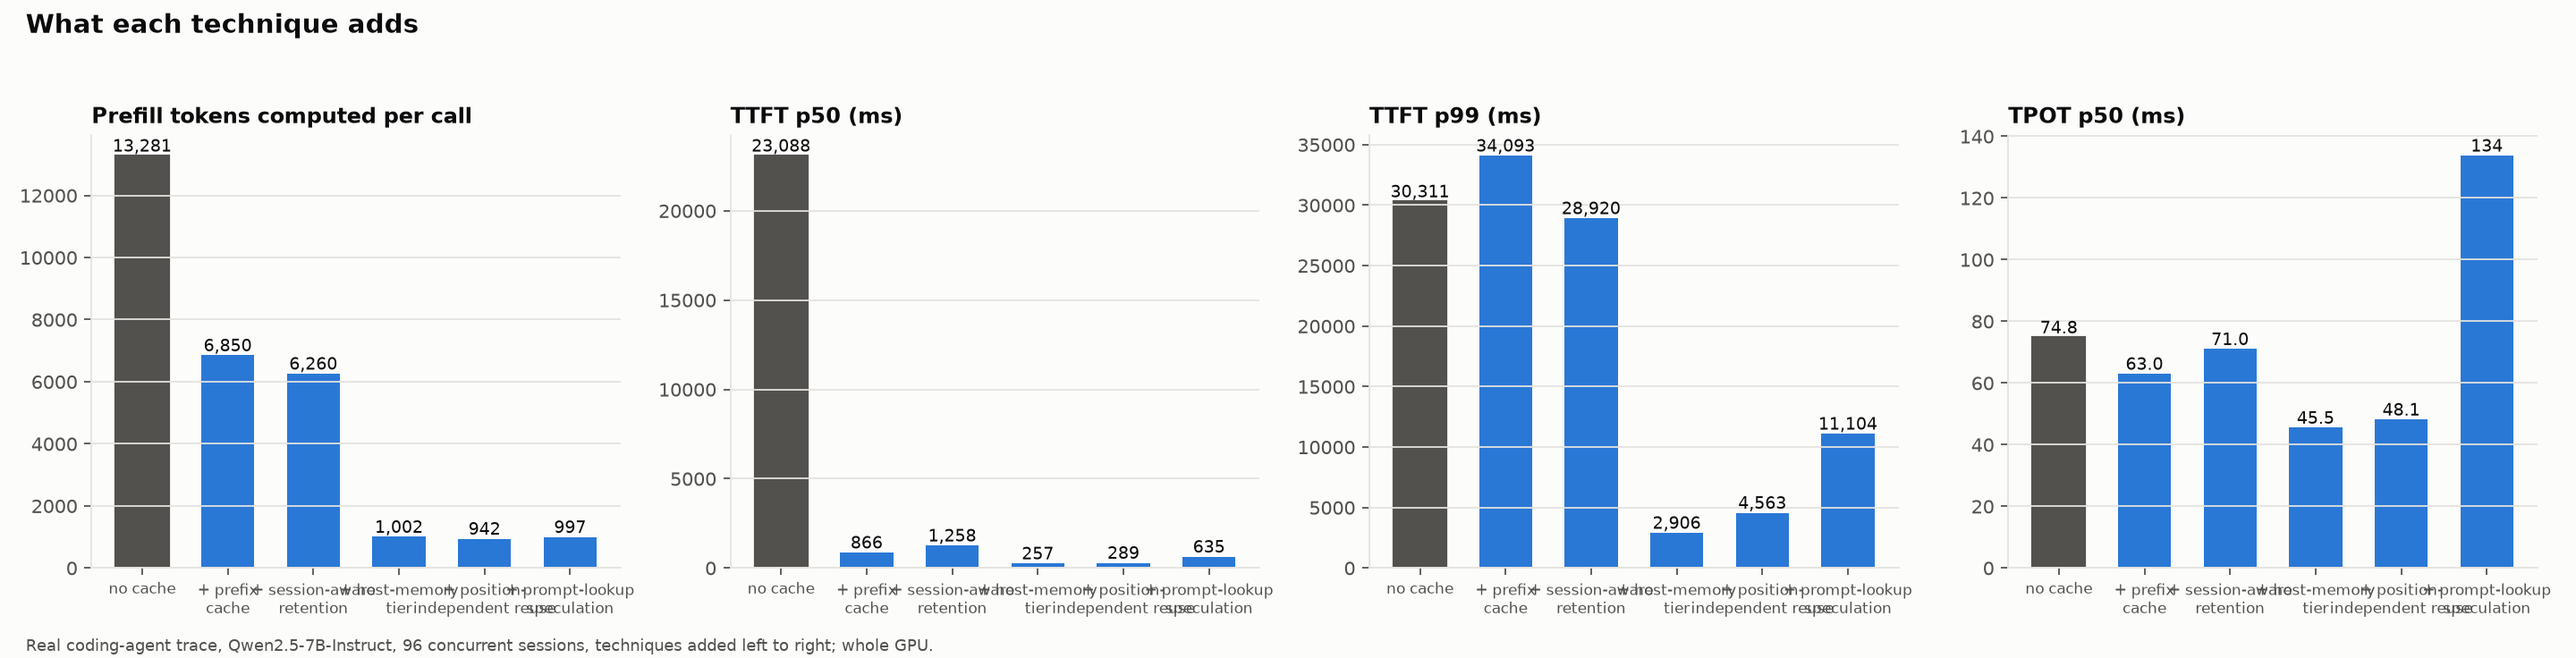
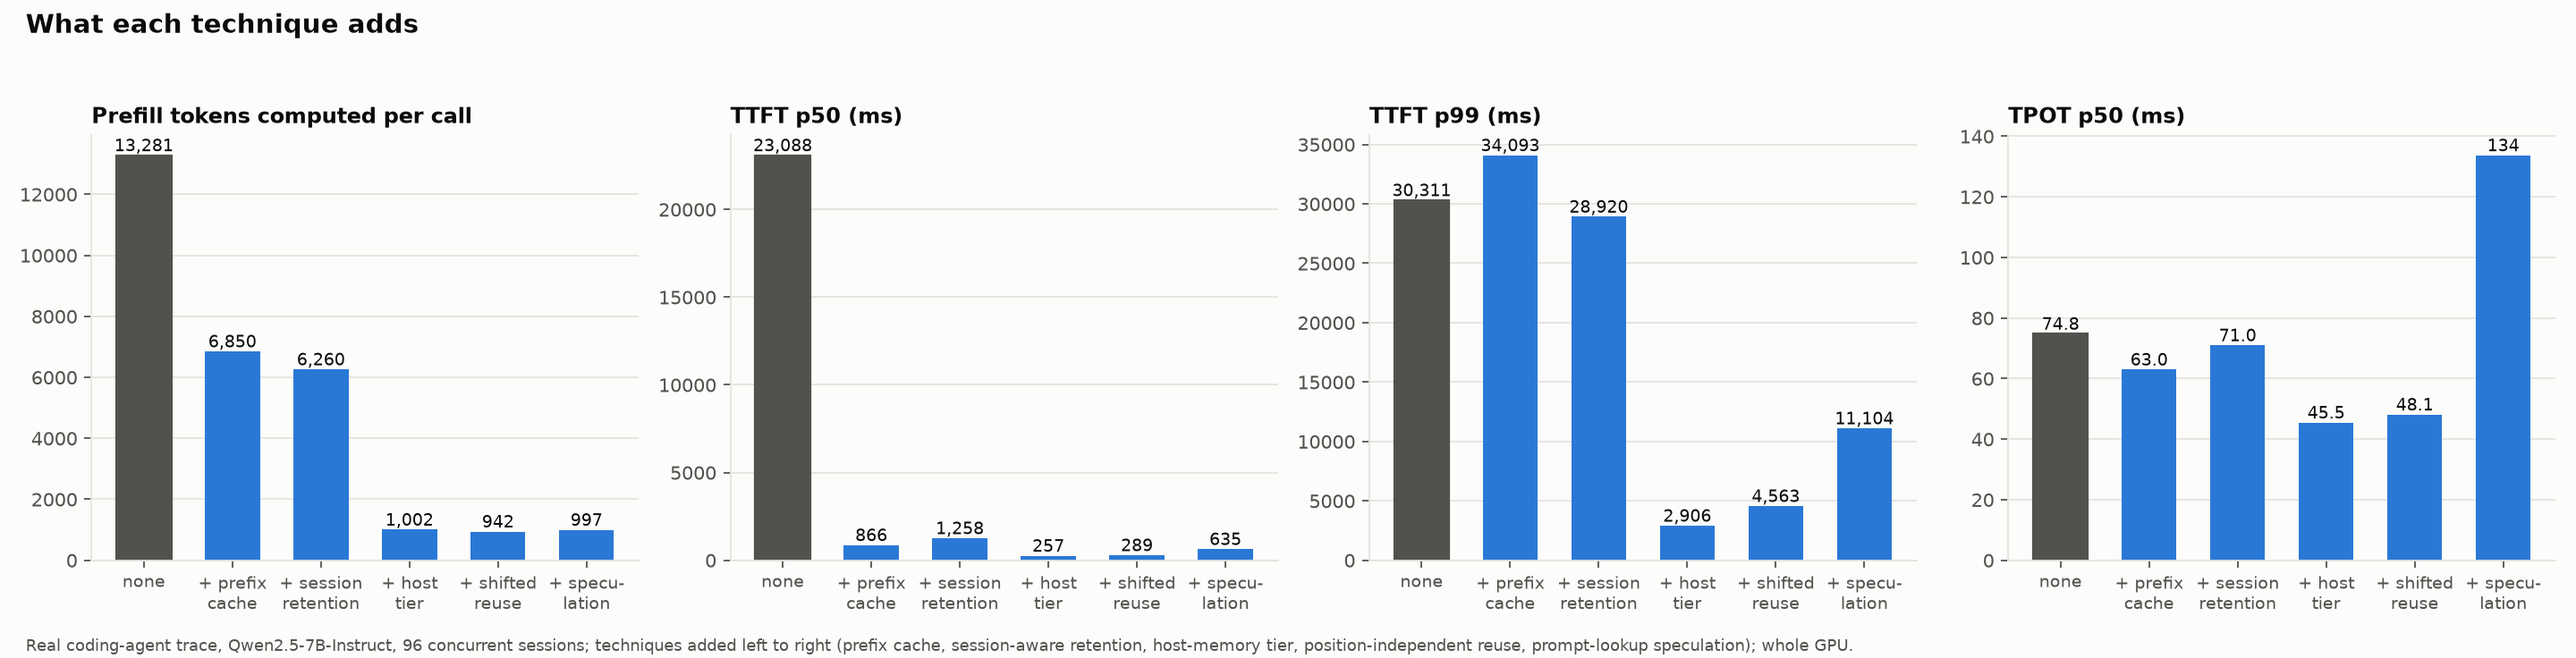
Phase 17: composition study written up (DESIGN M-028, B-009); README claims checked against the tables

diff --git a/bench/plot.py b/bench/plot.py
@@ -332,12 +332,12 @@ def plot_pressure(name: str = "pressure_7b") -> None:
 
 
 COMPOSITION_PATH = [
-    ("base", "no cache"),
+    ("base", "none"),
     ("prefix", "+ prefix\ncache"),
-    ("prefix+session", "+ session-aware\nretention"),
-    ("prefix+session+host", "+ host-memory\ntier"),
-    ("prefix+session+host+reuse", "+ position-\nindependent reuse"),
-    ("prefix+session+host+reuse+spec", "+ prompt-lookup\nspeculation"),
+    ("prefix+session", "+ session\nretention"),
+    ("prefix+session+host", "+ host\ntier"),
+    ("prefix+session+host+reuse", "+ shifted\nreuse"),
+    ("prefix+session+host+reuse+spec", "+ specu-\nlation"),
 ]
 
 
@@ -369,13 +369,15 @@ def plot_composition(name: str = "composition_7b") -> None:
         for index, value in enumerate(values):
             text = f"{value:,.0f}" if value >= 100 else f"{value:.1f}"
             ax.annotate(text, (index, value), ha="center", va="bottom", fontsize=8.5, color=INK)
-        ax.set_xticks(range(len(values)), labels, fontsize=7.5)
+        ax.set_xticks(range(len(values)), labels, fontsize=8.5)
+        ax.set_axisbelow(True)
         ax.set_title(title)
         ax.set_ylim(bottom=0)
     budget = data.get("kv_budget_gb")
     note = (
         f"Real coding-agent trace, {data['model'].rsplit('/', 1)[-1]}, {data['concurrency']} "
-        "concurrent sessions, techniques added left to right; "
+        "concurrent sessions; techniques added left to right (prefix cache, session-aware "
+        "retention, host-memory tier, position-independent reuse, prompt-lookup speculation); "
         + (f"KV cache limited to {budget:g} GB." if budget else "whole GPU.")
     )
     _finish(fig, list(axes), "What each technique adds", note, f"{name}.png")

diff --git a/DESIGN.md b/DESIGN.md
@@ -2243,3 +2243,95 @@ Script: `bench/speculation_serve.py` → `bench/results/speculation_serve_7b.jso
 - **Still off by default.** It is a latency feature for lightly loaded servers that costs
   tail latency, and it changes nothing for sampling requests' graphs. Recommended setting
   when on: `--speculation ngram --ngram-size 3 --num-draft-tokens 8`.
+
+---
+
+## Phase 17 — Composition study
+
+### M-028 Five techniques, every valid combination, on the real trace under memory pressure
+
+Script: `bench/composition.py` → `bench/results/composition_7b.json`, chart
+`bench/plots/composition_7b.png`. Qwen2.5-7B, the real trace at 96 concurrent sessions
+(1.5–1.7× what the GPU's KV pool holds, M-024), a fresh `minfer serve` per combination,
+360 s of load with the first 120 s not counted. Techniques: `prefix` (radix-tree prefix
+cache), `session` (session-aware retention; needs prefix), `host` (96 GB host tier; needs
+session), `reuse` (position-independent reuse at 15% recomputation; needs prefix), `spec`
+(prompt lookup, n=3, ≤ 8 drafted, graph verification). 14 valid combinations.
+
+| techniques | calls | prefill tokens / call | hit rate | TTFT p50 / p99 (ms) | TPOT p50 (ms) | out tok/s |
+|---|---|---|---|---|---|---|
+| none | 513 | 13,281 | 0% | 23,088 / 30,311 | 74.8 | 228 |
+| spec | 428 | 12,614 | 0% | 32,370 / 43,931 | 84.6 | 166 |
+| prefix | 787 | 6,850 | 55.7% | 866 / 34,093 | 63.0 | 391 |
+| prefix + session | 795 | 6,260 | 59.5% | 1,258 / 28,920 | 71.0 | 388 |
+| prefix + reuse | 789 | 6,414 | 58.5% | 811 / 32,312 | 63.8 | 387 |
+| prefix + spec | 572 | 5,723 | 59.9% | 2,047 / 46,053 | 132.0 | 272 |
+| prefix + session + reuse | 792 | 5,967 | 61.4% | 978 / 28,246 | 69.1 | 397 |
+| prefix + session + spec | 595 | 5,120 | 64.4% | 2,018 / 32,444 | 134.3 | 278 |
+| prefix + reuse + spec | 575 | 5,262 | 63.3% | 1,521 / 41,748 | 134.9 | 264 |
+| prefix + session + reuse + spec | 589 | 4,877 | 66.2% | 2,569 / 34,261 | 133.9 | 280 |
+| **prefix + session + host** | **1,228** | 1,002 | 93.9% | **257 / 2,906** | **45.5** | **661** |
+| prefix + session + host + reuse | 1,169 | **942** | **94.3%** | 289 / 4,563 | 48.1 | 630 |
+| prefix + session + host + spec | 699 | 1,027 | 93.0% | 538 / 11,194 | 131.3 | 350 |
+| prefix + session + host + reuse + spec | 694 | 997 | 93.2% | 635 / 11,104 | 133.7 | 352 |
+
+- **Noise.** Three of these configurations were also measured in the pressure sweep
+  (M-024): throughput differs by 1–3% and hit rate by under half a point between the two
+  runs, TTFT p50 by up to 24% (prefix-only: 866 vs 1,142 ms) and TTFT p99 by up to 26%
+  (with the host tier: 2,906 vs 3,913 ms). Latency differences of that size between rows
+  mean nothing.
+- **Decomposition** (the chart's path): no cache 13,281 prefill tokens per call → prefix
+  cache 6,850 → + retention 6,260 → + host tier 1,002 → + reuse 942. The prefix cache
+  halves the work and still thrashes; the host tier removes 84% of what is left;
+  retention and reuse are 9% and 6% effects.
+- **What the best valid combination is.** prefix + session + host: highest throughput,
+  lowest TTFT at the median and the tail, lowest TPOT. Adding reuse saves another 6% of
+  prefill tokens and gains nothing measurable in latency or throughput (630 vs 661 tok/s
+  is at the edge of the noise, in the wrong direction), for an approximation that changes
+  ~3% of next-token predictions (M-026). Adding speculation halves the throughput.
+- **Interactions** (`bench/readme_tables.py`, "interactions"; relative to what both
+  techniques need):
+  - *retention × reuse*: −590 and −435 prefill tokens per call alone, −883 together
+    (143 short of additive, 2% of the base: inside the noise).
+  - *host tier × reuse*: −5,258 and −292 alone, −5,318 together: reuse adds almost nothing
+    once the host tier has restored the hit rate, because what reuse can find (a system
+    prompt behind a different preamble) is a few hundred tokens once per session.
+  - *host tier × speculation*: the tier lowers TPOT by 25 ms, speculation raises it by 63;
+    together +60, i.e. speculation erases the tier's latency gain and most of its
+    throughput gain (661 → 350 tok/s). They compete for the same thing: the tier frees
+    compute by avoiding prefill, speculation spends compute on verification rows.
+  - *anything × speculation at this load*: TPOT 132–135 ms against 45–71 without, in every
+    combination; throughput −27% to −47%.
+  - The lower "prefill tokens per call" in speculative rows of the collapsing
+    configurations (e.g. 5,723 vs 6,850) is not a saving: those servers complete fewer and
+    different calls, and the figure depends on which.
+- **Failures.** One request in each of two overloaded speculative runs (`spec`,
+  `prefix + spec`) ended with a client-side `ServerDisconnectedError`, with nothing in the
+  server's log; a third speculative run of the same kind had none. Not explained. Two
+  combinations with host tier and reuse first crashed the engine (B-009) and were
+  re-measured after the fix; the table has the re-measured rows.
+- **Against the baselines** the comparison is M-024's: at 96 sessions vLLM with its native
+  offloading delivers 809 tok/s and a TTFT of 206 / 1,091 ms, SGLang with its hierarchical
+  cache 772 tok/s and 153 / 1,409 ms, full-stack minfer 641–661 tok/s and 257–266 /
+  2,906–3,913 ms while computing 985–1,002 prefill tokens per call against their 1,545 and
+  1,702. `vllm-continuum` was not installed: its repository describes itself as a preview
+  that omits the paper's TTL estimator, and it is based on a vLLM release far older than
+  the pinned 0.34.0, so it would have been neither Continuum as published nor a fair
+  second vLLM.
+
+### B-009 A reuse copy ran for a sequence that had just been preempted (fixed)
+
+- **Symptom.** `prefix+session+host+reuse` at 96 sessions: the engine process died with
+  `IndexError: index 640 is out of bounds for axis 0 with size 0` in `_run_copies`, and
+  251 requests failed.
+- **Root cause.** The scheduler queues a sequence's KV copy and then allocates blocks for
+  its next prefill chunk in the same pass. If that allocation fails with nothing left to
+  evict, the victim of preemption is the youngest running sequence — possibly this one.
+  Its block table is then gone while its copy is still in the step's plan. The existing
+  invariant "a victim is never a sequence already selected for this step" (D-015) did not
+  cover work queued *before* the failing allocation of the same sequence.
+- **Fix.** After planning, copies of sequences that are no longer running are dropped and
+  their pinned sources released; and reuse is not planned again for a sequence that has
+  been preempted, since the pinned sources may be exactly the memory it lacked.
+  Regression test `test_a_sequence_preempted_after_its_copy_was_queued` (fails before,
+  passes after). Only configurations with `--position-independent-reuse` were exposed.

diff --git a/README.md b/README.md
@@ -23,7 +23,7 @@ a wrapper around another serving engine.
 **On real coding-agent traces at 7B, once concurrent sessions exceed GPU memory, one
 technique decides the outcome — a host-memory tier for the KV cache — and vLLM with its own
 offloading is the fastest system measured. minfer with every exact technique enabled
-recomputes the least and is still about 20% behind vLLM in throughput.**
+recomputes the least and is still 16–21% behind vLLM in throughput.**
 
 Each engine in its best measured configuration, 64–128 concurrent sessions (one H100 holds
 the KV of about 55–65):
@@ -94,17 +94,20 @@ What the composition shows:
 - **Session-aware retention is a small gain** (9% fewer prefill tokens than LRU, a lower
   TTFT tail) that does not prevent the collapse by itself; the host tier needs its
   eviction order, so the two are measured together.
-- **Position-independent reuse is nearly irrelevant on this trace** (6% fewer prefill
-  tokens, no change in latency or throughput) because only 0.8% of the trace's tokens are
-  shifted duplicates, and it costs output fidelity (about 3% of next-token predictions
-  change).
-- **Prompt-lookup speculation hurts at this load**: it doubles per-token latency and costs
-  30–47% of throughput in every combination. It lowers per-token latency by 8–14% on a
+- **Position-independent reuse is nearly irrelevant on this trace**: 6% fewer prefill
+  tokens with or without the host tier and no gain in latency or throughput beyond
+  run-to-run noise, because only 0.8% of the trace's tokens are shifted
+  duplicates — and it costs output fidelity (about 3% of next-token predictions change).
+- **Prompt-lookup speculation hurts at this load**: it doubles or triples per-token
+  latency and costs 27–47% of throughput in every combination. It lowers per-token latency by 8–14% on a
   lightly loaded server ([below](#component-measurements)); a saturated one has no spare
   rows to verify drafts with.
-- **Interactions.** Techniques that save prefill work do not add up — retention and reuse
-  together save less than the sum of each, since both recover some of the same evicted
-  history — and speculation competes with all of them for the compute their savings free.
+- **Interactions.** Nothing compounds. The prefill savings of retention, the host tier and
+  reuse overlap (each recovers part of the same evicted history, and once the host tier
+  has brought the hit rate to its ceiling there is little left for the others), and
+  speculation competes with all of them for compute: with the host tier it takes back
+  most of the throughput the tier gained (661 → 350 tok/s). The best valid combination for
+  this workload is therefore the three exact KV techniques and nothing else.
 
 <!-- BEGIN interactions -->
 | pair (on top of what both need) | metric | without either | first alone | second alone | both | both − sum of each |
@@ -126,11 +129,11 @@ What the composition shows:
 | host-memory tier × prompt-lookup speculation | TPOT p50 (ms) | 70.98 | -25.51 | +63.31 | +60.34 | +22.54 |
 <!-- END interactions -->
 
-Single runs; repeating a configuration moved its throughput and hit rate by about 1%
-(the prefix-only and the retention + host-tier configurations were each measured twice,
-in this table and in the [pressure sweep](#real-coding-agent-traces-under-memory-pressure)).
-Per-call figures in collapsing configurations also depend on which calls complete, so
-differences of a few percent between them are not findings.
+Single runs. Three configurations were measured twice (in this table and in the
+[pressure sweep](#real-coding-agent-traces-under-memory-pressure)): throughput repeated to
+1–3% and hit rate to half a point, but latency percentiles in overloaded configurations
+moved by up to 25% between runs, and per-call figures in collapsing configurations depend
+on which calls complete. Differences of that size in this table are not findings.
 
 **Why minfer is behind vLLM with everything on.** Not KV management — it recomputes
 33–42% fewer prefill tokens than either baseline at 96 and 128 sessions — but its decode
@@ -913,7 +916,10 @@ one model on one GPU.
 - **Reproduction on a second machine was not performed.** A fresh clone on the *same*
   machine, with empty caches and re-downloaded weights, was: see
   [Reproduction check](#reproduction-check).
-- **Speculative decoding** is correct but slower than not speculating (above).
+- **The decode gap to vLLM and SGLang at 7B is open** (6% per token at 1 req/s, 23% at
+  16 req/s, 0.82× saturated throughput). Unified prefill+decode passes were implemented
+  and measured; they lose at saturation and are off by default (DESIGN.md M-025).
+- **Speculative decoding** helps only on a lightly loaded server and hurts a saturated one.
 - **One model family** (Qwen2/2.5), text only, no tool-call parsing on the response side,
   no `n > 1`, no penalties, no logprobs.
 
